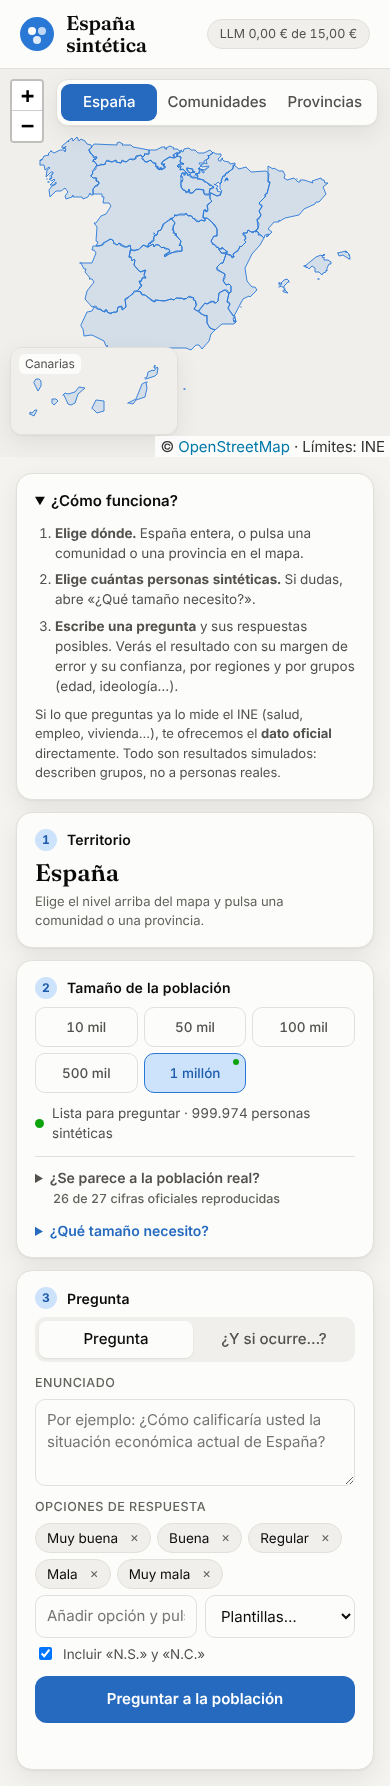
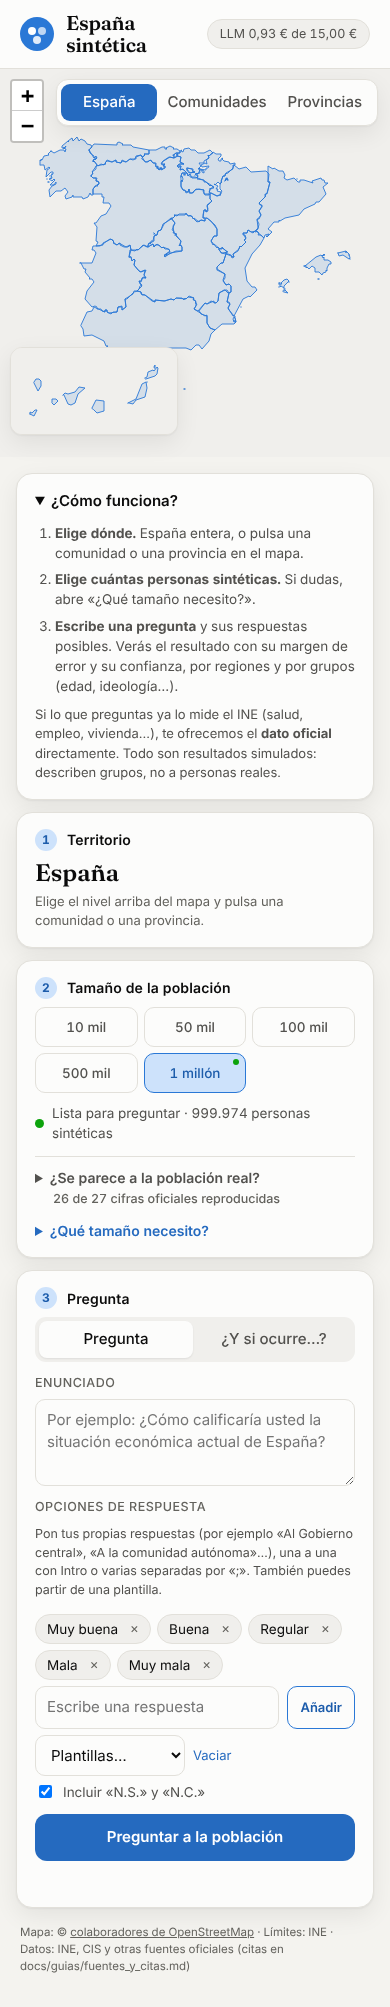
F14: prueba de extremo a extremo en copia limpia con el paquete; puerta superada
Claude-Session: https://claude.ai/code/session_01YEHryEmqEx38Xmxs1DbT8m

Changed region(s): [[0.0308, 0.0, 0.9231, 0.9854], [0.9231, 0.2464, 0.9846, 0.2772], [0.8, 0.4927, 0.8308, 0.5235]]

diff --git a/reports/fase_14.md b/reports/fase_14.md
@@ -44,7 +44,7 @@ Una página (`src/sinpop/servicio/web/`) servida por `sinpop serve`, sin pasos d
 | ID | Resultado | Evidencia |
 | --- | --- | --- |
 | G14.1 Extremo a extremo | ✅ | Pregunta sobre España, mapa coloreado, pregunta sobre Madrid (100 000), evento y exploración; 0 errores de JavaScript |
-| G14.2 Ninguna cifra sin intervalo ni confianza | ✅ | En el DOM: 7/7 barras con IC 80 % y 95 %, 28/28 celdas con confianza y aviso de simulación en todos los resultados, también en el evento |
+| G14.2 Ninguna cifra sin intervalo ni confianza | ✅ | En el DOM: 7/7 barras con IC 80 % y 95 %, 77/77 celdas de subgrupo con confianza y aviso de simulación en todos los resultados, también en el evento |
 | G14.3 Accesibilidad | ✅ | axe-core: 0 avisos |
 | G14.4 Revisión humana | ⏸ | Pendiente |
 
@@ -57,7 +57,11 @@ Capturas en `reports/fase_14/`:
 4. mapa coloreado;
 5. comunidad;
 6. evento;
-7. móvil.
+8. móvil;
+9. dato de la población;
+10. asistente de tamaño.
+
+También se comprueban las opciones propias pegadas con «;» y la plantilla «responsable» (D-085).
 
 En el contenedor de trabajo las teselas de OpenStreetMap están bloqueadas, por eso las capturas muestran solo los límites del INE. En un equipo con internet se ve el mapa de fondo.
 

diff --git a/reports/fase_14_puerta.md b/reports/fase_14_puerta.md
@@ -1,12 +1,12 @@
 # Puerta de la fase F14
 
 **Resultado:** superada  
-**Fecha:** 2026-10-22 · **Versión del código:** git:979d34f-dirty  
+**Fecha:** 2026-10-22 · **Versión del código:** git:5e9ed21-dirty  
 **Comando:** `sinpop validate --phase 14`
 
 | ID | Comprobación | Resultado | Valor | Umbral |
 | --- | --- | --- | --- | --- |
-| G14.1 | Pruebas de extremo a extremo de pregunta, evento y exploración | ✅ | 8 pantallas; 0 errores JS | pasan |
+| G14.1 | Pruebas de extremo a extremo de pregunta, evento y exploración | ✅ | 9 pantallas; 0 errores JS | pasan |
 | G14.2 | Ninguna cifra sin intervalo y confianza; aviso en todos los resultados | ✅ | cifras con intervalo, confianza y aviso | test automático |
 | G14.3 | Accesibilidad sin errores graves (axe-core) | ✅ | 0 avisos de axe-core | 0 críticos o graves |
 | G14.4 | Revisión humana de la interfaz | ⏸ | pendiente (reports/fase_14.md) | aprobación |
